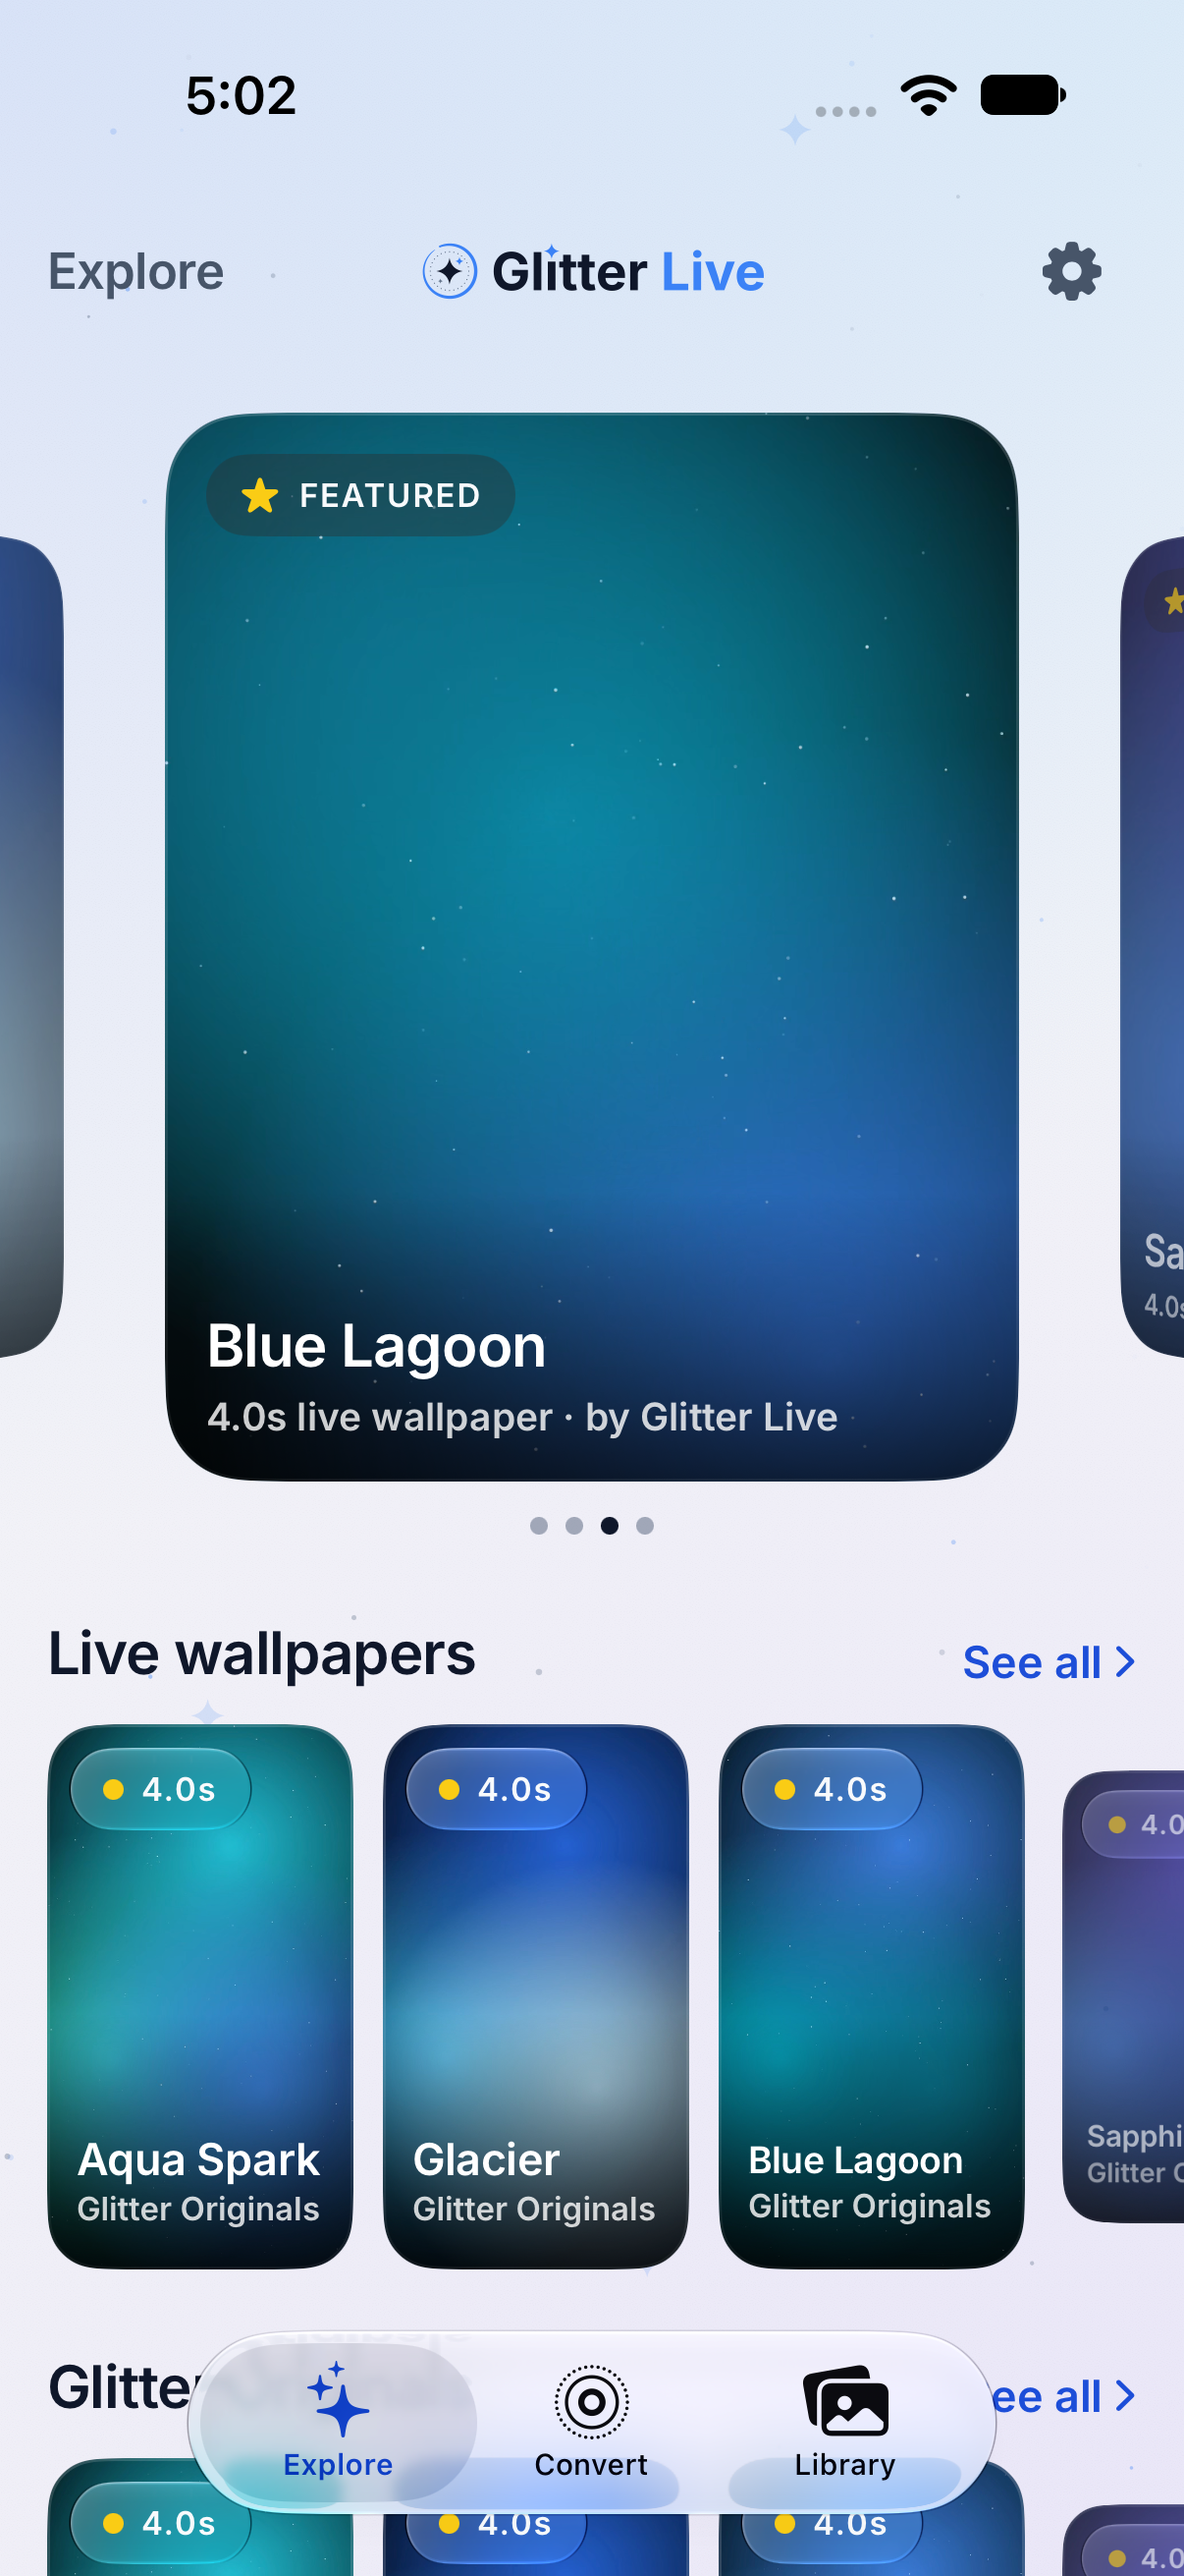
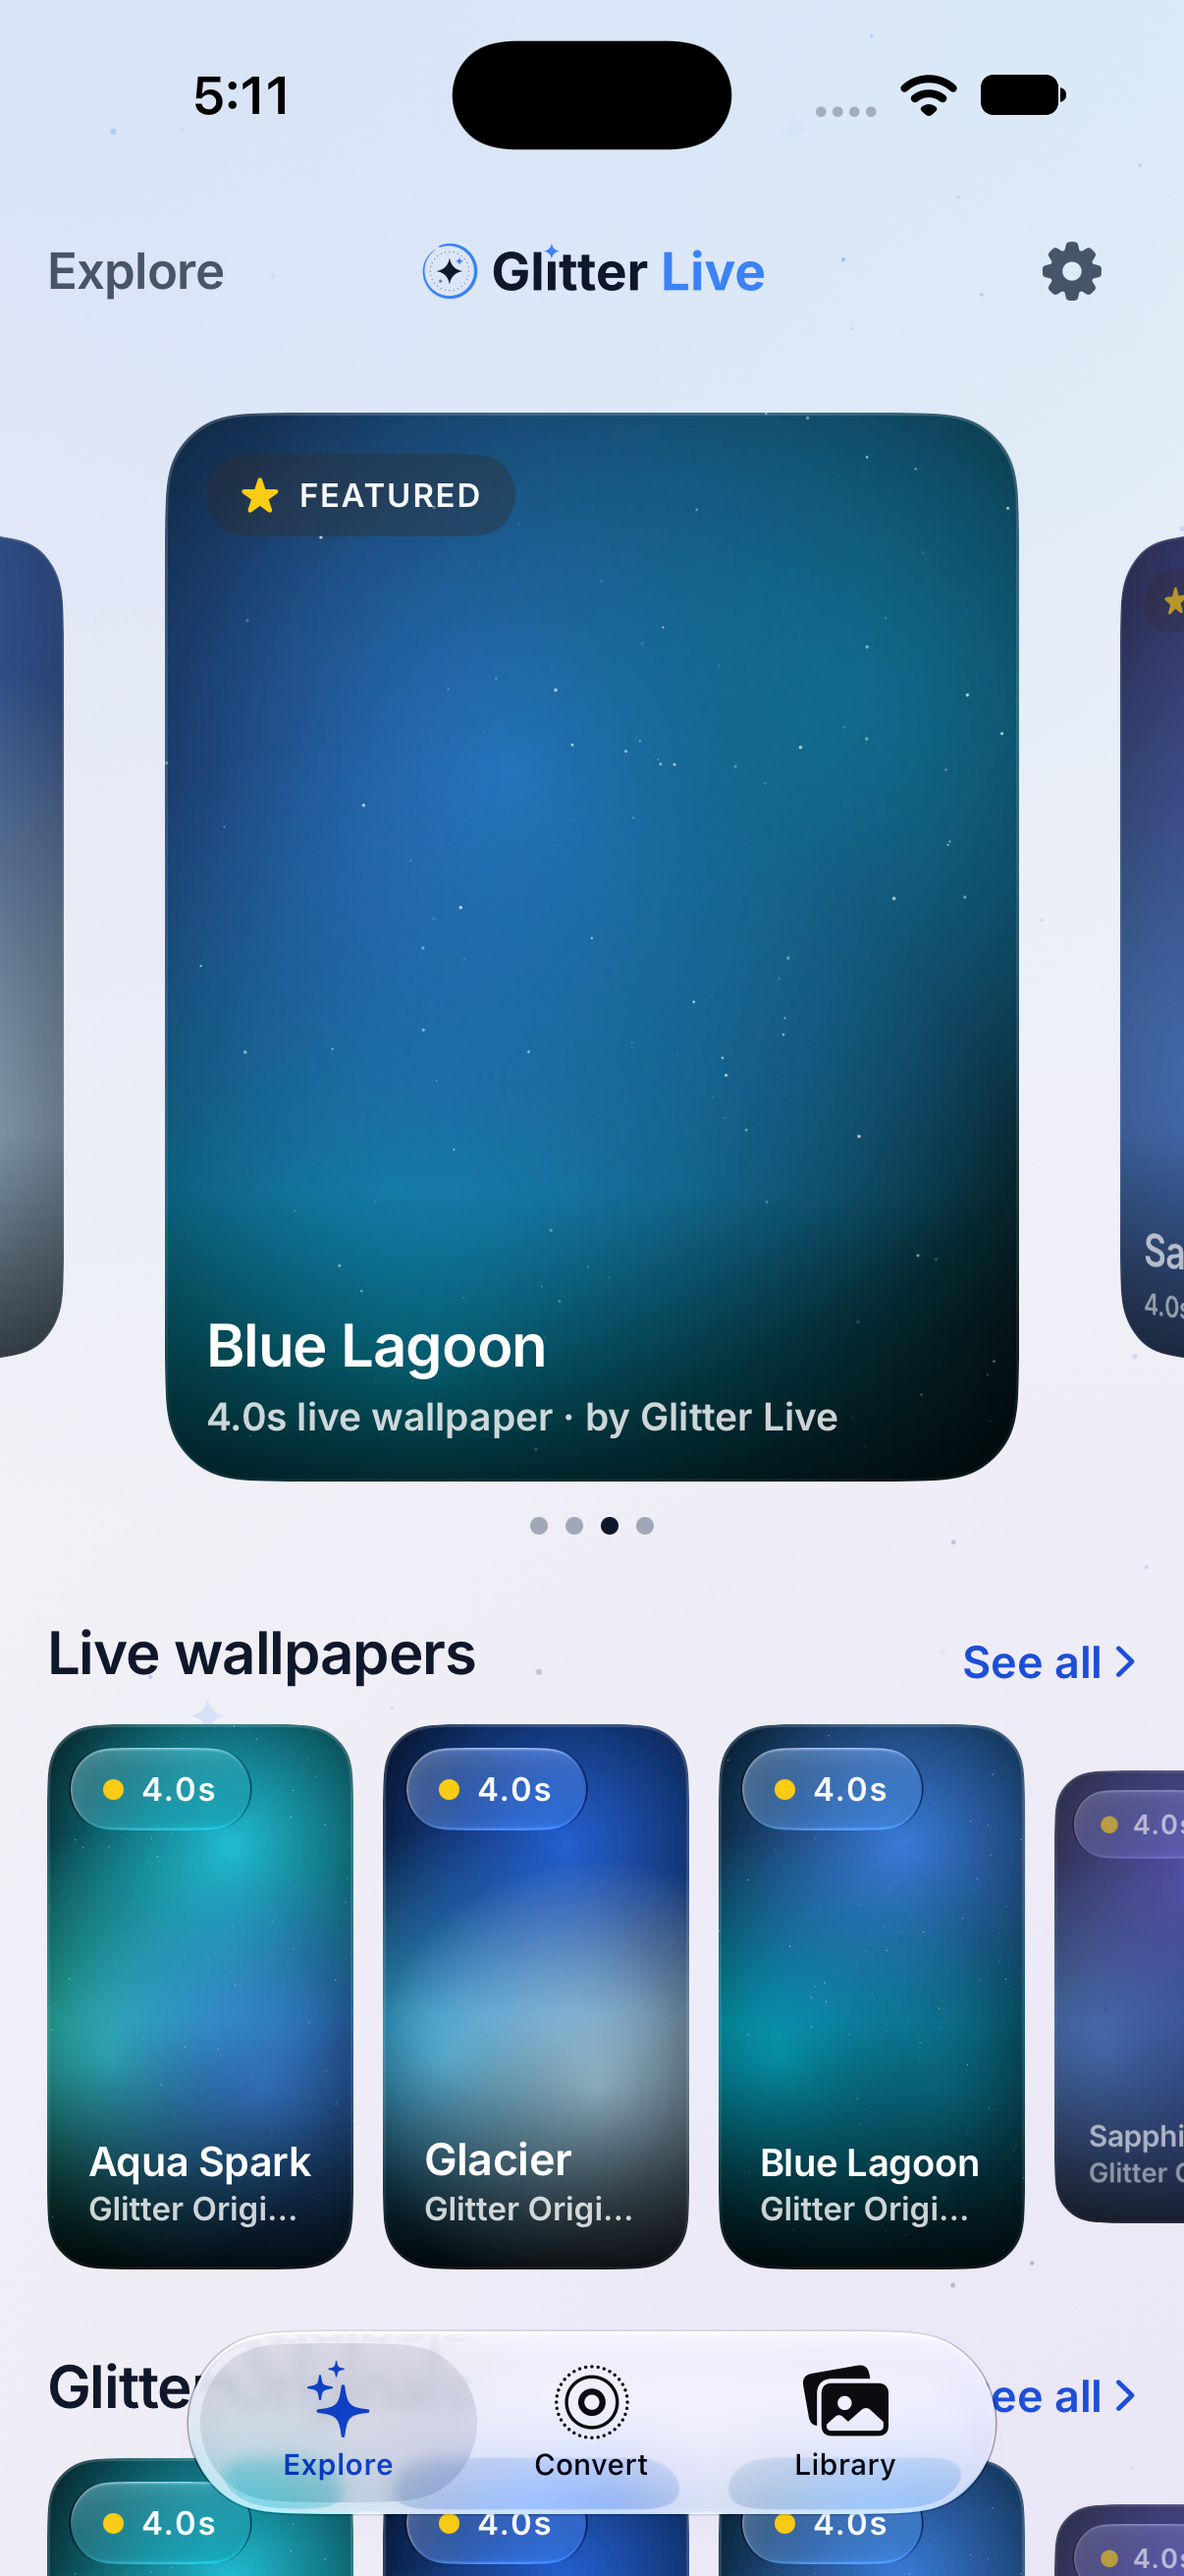
Explore: original card captions, zoom only on incoming cards, skeleton matches the loaded layout
The skeleton's fixed-width card row was wider than the screen and pushed the
whole page left; it now sizes cards like a loaded row and adds the carousel
dots and See all placeholders.

diff --git a/LiveWall/Features/Explore/ExploreView.swift b/LiveWall/Features/Explore/ExploreView.swift
@@ -275,11 +275,12 @@ struct ExploreView: View {
                         CatalogCardButton(wallpaper: wallpaper, source: "\(section.id)/\(wallpaper.id)", zoom: zoom) { opened = $0 }
                             // Three cards and a peek of the fourth, so more of each row and more rows fit on screen.
                             .containerRelativeFrame(.horizontal, count: 10, span: 3, spacing: 10)
-                            // Cards at the edges sit smaller and faded, so new ones seem to rise from behind as they slide in.
+                            // Cards coming in from the right start smaller and faded, so they seem to rise from behind.
+                            // Cards leaving on the left just slide away.
                             .scrollTransition(.interactive, axis: .horizontal) { card, phase in
-                                let distance = reduceMotion ? 0 : min(abs(phase.value), 1)
+                                let distance = reduceMotion ? 0 : min(max(phase.value, 0), 1)
                                 return card
-                                    .scaleEffect(1 - distance * 0.2, anchor: phase.value > 0 ? .leading : .trailing)
+                                    .scaleEffect(1 - distance * 0.2, anchor: .leading)
                                     .opacity(1 - distance * 0.45)
                             }
                     }
@@ -466,24 +467,37 @@ private struct WallpaperThumbnail: View {
 private struct ExploreSkeleton: View {
     var body: some View {
         VStack(alignment: .leading, spacing: 28) {
-            card(cornerRadius: 28, titleWidth: 0.5)
-                .aspectRatio(4 / 5, contentMode: .fit)
-                // The carousel's card sits inside 56 pt margins, 40 more than the page's.
-                .padding(.horizontal, 40)
+            VStack(spacing: 12) {
+                card(cornerRadius: 28, titleWidth: 0.5)
+                    .aspectRatio(4 / 5, contentMode: .fit)
+                    // The carousel's card sits inside 56 pt margins, 40 more than the page's.
+                    .padding(.horizontal, 40)
+                HStack(spacing: 6) {
+                    ForEach(0..<4, id: \.self) { _ in Circle().fill(Theme.placeholder).frame(width: 6, height: 6) }
+                }
+                .frame(maxWidth: .infinity)
+            }
             ForEach(0..<2, id: \.self) { row in
                 VStack(alignment: .leading, spacing: 12) {
-                    Capsule().fill(Theme.placeholder).frame(width: row == 0 ? 150 : 120, height: 18).shimmer()
-                    HStack(spacing: 10) {
-                        ForEach(0..<4, id: \.self) { index in
-                            card(cornerRadius: 18, titleWidth: index.isMultiple(of: 2) ? 0.7 : 0.55)
-                                .aspectRatio(9 / 16, contentMode: .fit)
-                                .frame(width: 104)
+                    HStack {
+                        Capsule().fill(Theme.placeholder).frame(width: row == 0 ? 150 : 120, height: 18).shimmer()
+                        Spacer()
+                        Capsule().fill(Theme.placeholder).frame(width: 60, height: 14).shimmer()
+                    }
+                    // Sized exactly like a loaded row (three cards and a peek, running off the edge),
+                    // without pushing the page wider than the screen.
+                    ScrollView(.horizontal) {
+                        LazyHStack(spacing: 10) {
+                            ForEach(0..<4, id: \.self) { index in
+                                card(cornerRadius: 18, titleWidth: index.isMultiple(of: 2) ? 0.7 : 0.55)
+                                    .aspectRatio(9 / 16, contentMode: .fit)
+                                    .containerRelativeFrame(.horizontal, count: 10, span: 3, spacing: 10)
+                            }
                         }
                     }
-                    .frame(maxWidth: .infinity, alignment: .leading)
-                    // Cards run off the edge, as the loaded rows do.
-                    .padding(.trailing, -16)
-                    .clipped()
+                    .scrollDisabled(true)
+                    .scrollIndicators(.hidden)
+                    .fullBleed()
                 }
             }
         }
@@ -577,10 +591,9 @@ private struct CatalogCard: View {
             .overlay(alignment: .bottom) {
                 VStack(alignment: .leading, spacing: 1) {
                     Text(wallpaper.title).typography(.labelLarge).foregroundStyle(.white).lineLimit(1).minimumScaleFactor(0.8)
-                    Text(wallpaper.category).font(.labelSmall).foregroundStyle(Theme.onMediaSecondary).lineLimit(1).minimumScaleFactor(0.8)
+                    Text(wallpaper.category).font(.labelSmall).foregroundStyle(Theme.onMediaSecondary).lineLimit(1)
                 }
-                // A narrower inset than the featured card's, so category names like "Glitter Originals" fit on one line.
-                .mediaCaption(inset: 10)
+                .mediaCaption()
             }
             .clipShape(RoundedRectangle(cornerRadius: 18, style: .continuous))
             .overlay(RoundedRectangle(cornerRadius: 18, style: .continuous).strokeBorder(Theme.specularRim, lineWidth: 1))

diff --git a/LiveWall/DesignSystem/Components.swift b/LiveWall/DesignSystem/Components.swift
@@ -274,18 +274,17 @@ extension View {
     }
 
     /// Legible text over media: a dark gradient rising from the bottom edge, as in Photos.
-    func mediaCaption(inset: CGFloat = 14) -> some View {
-        modifier(MediaCaption(inset: inset))
+    func mediaCaption() -> some View {
+        modifier(MediaCaption())
     }
 }
 
 private struct MediaCaption: ViewModifier {
-    var inset: CGFloat
     @Environment(\.colorSchemeContrast) private var contrast
 
     func body(content: Content) -> some View {
         content
-            .padding(.horizontal, inset)
+            .padding(.horizontal, 14)
             .padding(.top, 40)
             .padding(.bottom, 14)
             .frame(maxWidth: .infinity, alignment: .leading)
